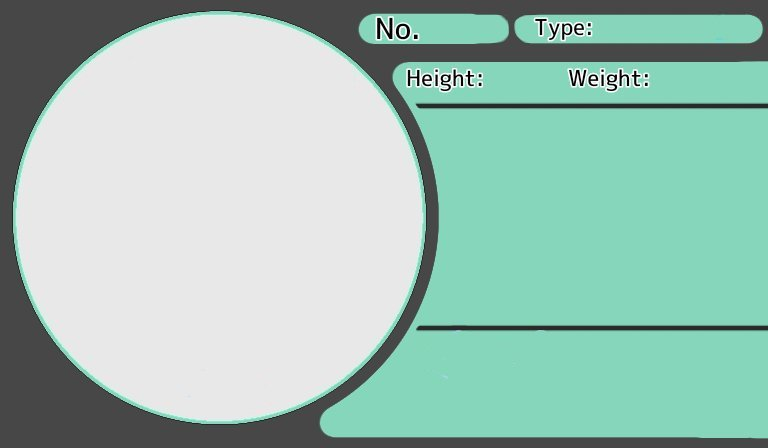
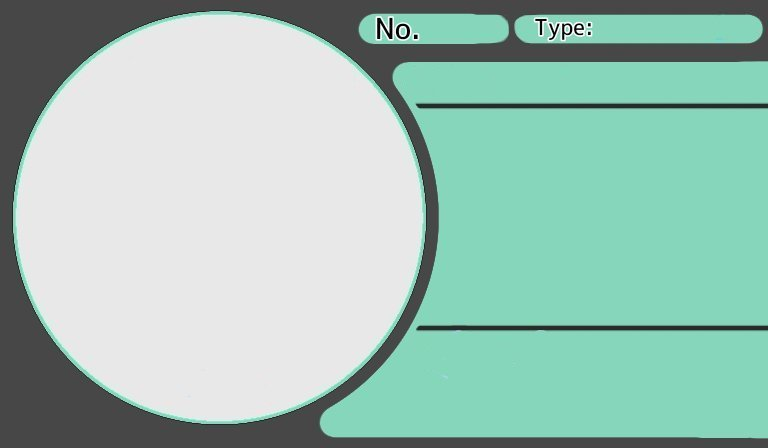
CSS Formating

Changed region(s): [[0.7188, 0.1562, 0.8438, 0.2188], [0.5312, 0.1562, 0.6562, 0.2188]]

diff --git a/src/Components/Pokemon.js b/src/Components/Pokemon.js
@@ -22,12 +22,11 @@ export default function Pokemon() {
         setTypes(pokeData.types.map(type => type.type.name).join(', '));
         setAbilities(pokeData.abilities.map(abilities => abilities.ability.name).join(', '));
         setMoves(pokeData.moves);
-        await GetPokemonPic(name);
-        console.log(image);
+        await GetPokemonPic(pokeData.id);
     }
 
-    const GetPokemonPic = async (name) => {
-        setImage((await GetPokePic(name)).slice(5));
+    const GetPokemonPic = async (input) => {
+        setImage((await GetPokePic(input)));
     }
 
     useEffect(() => {
@@ -39,17 +38,27 @@ export default function Pokemon() {
             <Container>
                 <Row>
                     <Col>
-                        <img src={image} alt='Pokemon' />
+                        <Row>
+                            <Col>
+                                <input type="text" placeholder="Enter Pokemon Name Or Index Here" onChange={(e) => setSearch(e.target.value)} />
+                                <button onClick={() => GetPokemon(search)}>Press Me To Search</button>
+                            </Col>
+                        </Row>
+                        <Row>
+                            <Col>
+                                <img src={image} alt='Pokemon' />
+                            </Col>
+                        </Row>
                     </Col>
                     <Col>
-                        <h1>Pokedex</h1>
-                        <input type="text" placeholder="Enter Pokemon Name Or Index Here" onChange={(e) => setSearch(e.target.value)} />
-                        <button onClick={() => GetPokemon(search)}>Press Me To Search</button>
-                        <h1>Name: {name}</h1>
-                        <h1>Index: {index}</h1>
-                        <h1>Type: {types}</h1>
-                        <h1>Abilities: {abilites}</h1>
-                        <Dropdown>
+                        {/* <h1>Pokedex</h1>
+                        <h1>Name: {name}</h1> */}
+                        <div className="d-flex justify-content-around pt-4">
+                            <h1 className="p-2">{index}</h1>
+                            <h1 className="pt-1">{types}</h1>
+                        </div>
+                        <h1 className="p-5">Abilities: {abilites}</h1>
+                        <Dropdown className="movesDropDown">
                             <Dropdown.Toggle variant="" id="dropdown-moves">
                                 Moves
                             </Dropdown.Toggle>

diff --git a/src/Components/Pokemon.css b/src/Components/Pokemon.css
@@ -4,3 +4,7 @@
     background-repeat: no-repeat;
     height: 715px;
 }
+
+.movesDropDown {
+    padding-left: 6rem;
+}
